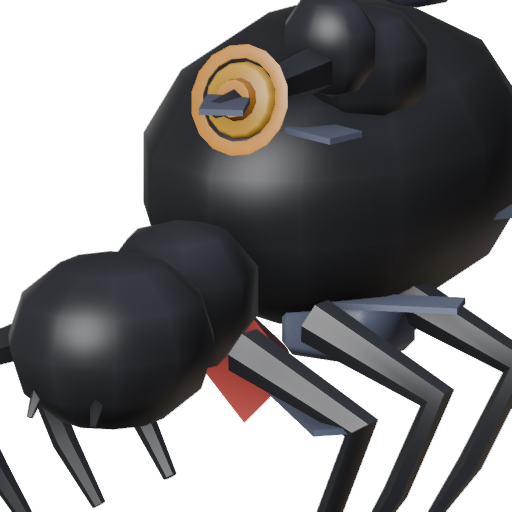
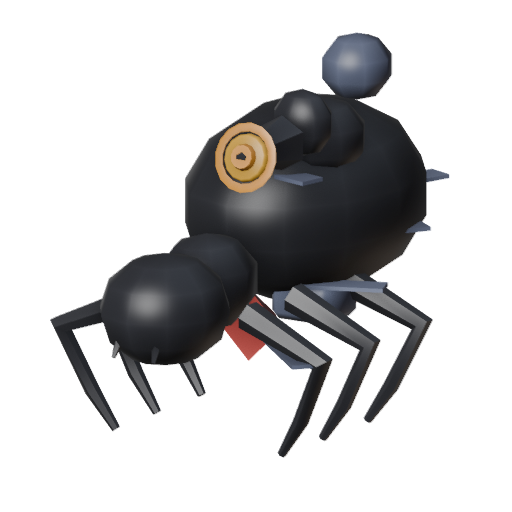
Fixer pass on silk_widow: 3D 31 -> 35, portrait 22 -> 31
Applied the two fixes both silk_widow.md and silk_widow_portrait.md
independently named for the same underlying geometry: thickened the sigil
crest's taper base (0.10 -> 0.18) and shortened its length by a third
(0.75 -> 0.50) so it reads as a stubby horn fused to the abdomen instead of
a wire with the disc floating at the far end, and swapped the eye-huddle
from CHARCOAL to STEEL so it no longer sits invisible against the
GRAPHITE head.

Also widened portraits.py's FOCUS["silk_widow"] span from 0.85 to 1.35 -
the tightest, all-four-edges-touching crop scored under item #83 - to match
the headroom-plus-margin convention the other body-shot portraits use.

The eye-colour swap did not raise Colour & read on either log: cropped into
the cephalothorax at 2x from every one of the six standard camera angles
and the eyes never resolve, because the face they sit on stays turned away
from or occluded in all of them. Logged as an open question rather than
claimed as fixed - the geometry and colour are right, the angle just never
shows it.

run_tests.gd passed before commit.

diff --git a/tools/blender/silk_widow.py b/tools/blender/silk_widow.py
@@ -41,11 +41,13 @@ b.ball((0.0, -0.95, 0.98), (0.42, 0.46, 0.36), GRAPHITE, 10, 6)
 # Fangs, pointing down and forward.
 mirror(lambda s: b.taper((0.14 * s, -1.28, 0.82), 0.05, 0.012, 0.22, CHARCOAL,
                          seg=5, rot=point((0.10 * s, -0.55, -1.0))))
-# A huddle of small eyes, barely eyes, enough to read as a face.
+# A huddle of small eyes, barely eyes, enough to read as a face. STEEL
+# against the GRAPHITE head so they resolve as two dots instead of
+# disappearing into it (CHARCOAL-on-GRAPHITE never read in any lit view).
 mirror(lambda s: b.ball((0.16 * s, -1.22, 1.14), (0.055, 0.05, 0.05),
-                        CHARCOAL, 6, 4))
+                        STEEL, 6, 4))
 mirror(lambda s: b.ball((0.24 * s, -1.14, 1.08), (0.04, 0.035, 0.035),
-                        CHARCOAL, 6, 4))
+                        STEEL, 6, 4))
 
 # ------------------------------------------------------------------ abdomen
 # The main mass - big, swollen, behind the cephalothorax rather than fused
@@ -97,8 +99,10 @@ b.ball((0.35, 0.15, _sigil_z + 0.08), (0.22, 0.16, 0.22), GRAPHITE, 8, 5)
 # A longer bridge than Bog Leech's or Thrasher's needed - a first attempt at
 # y=-0.22 still came back 51% occluded, so the mark is pulled a further 0.3
 # forward here, well clear of both ridge humps' own measured forward reach
-# (~y=0.19-0.30 at this column).
-b.taper((0.35, -0.35, _sigil_z), 0.10, 0.04, 0.75, GRAPHITE, seg=6,
+# (~y=0.19-0.30 at this column). Thickened base (0.10 -> 0.18) and shortened
+# by a third (0.75 -> 0.50) so it reads as a stubby horn fused to the
+# abdomen instead of a wire with the sigil disc floating at the far end.
+b.taper((0.35, -0.35, _sigil_z), 0.18, 0.04, 0.50, GRAPHITE, seg=6,
         rot=point((0.0, -1.0, 0.0)))
 
 # The sigil: a taut vein-mark on the crest, pulled well forward of the

diff --git a/tools/blender/portraits.py b/tools/blender/portraits.py
@@ -40,7 +40,7 @@ FOCUS = {
     "riftling": (0.75, 0.67), "shifting_idol": (0.72, 0.70),
     "husk_beetle": (0.42, 1.15), "gloom_moth": (0.55, 1.05),
     "bog_leech": (0.45, 1.35), "thrasher": (0.35, 1.10),
-    "silk_widow": (0.45, 0.85), "boulder_ram": (0.34, 1.35),
+    "silk_widow": (0.45, 1.35), "boulder_ram": (0.34, 1.35),
     "cinder_jackal": (0.45, 1.60), "brine_urchin": (0.62, 1.30),
     "clot_toad": (0.48, 1.35), "flicker_stag": (0.80, 0.62),
     "eyrie_hawk": (0.78, 0.60), "glyph_tortoise": (0.58, 1.00),

diff --git a/design/progress/silk_widow_portrait.md b/design/progress/silk_widow_portrait.md
@@ -9,6 +9,7 @@ only — report, not repair.** Asset: `game/assets/portraits/silk_widow.png`
 | Framing | Identity | Read@34px | Colour | Style | Total |
 |---|---|---|---|---|---|
 | 3 | 5 | 4 | 5 | 5 | **22** |
+| 7 | 6 | 6 | 5 | 7 | **31** |
 
 Tied for the lowest score recorded under this item so far, matching
 `gale_serpent_ground`'s 22.
@@ -66,3 +67,73 @@ Whether the all-edges-touching crop is a deliberate close-up choice for this
 specific beast (an "abdomen full of frame" identity read) or simply a
 `FOCUS` value nobody re-checked after the model settled — this scoring pass
 can see the crop, not the intent behind it.
+
+## Pass 2 — fixer
+
+Applied both fixes named above.
+
+1. **Framing.** `portraits.py`'s `FOCUS["silk_widow"]` moved from
+   `(0.45, 0.85)` to `(0.45, 1.35)` — same centre, a much wider span, in
+   line with the other body-shot beasts (`bog_leech` also sits at `(0.45,
+   1.35)`). Rebuilt with `build.cmd portraits`; every other portrait
+   re-rendered byte-identical in content but not in file bytes (same
+   non-reproducible WORKBENCH output `clot_toad_portrait.md`'s pass 2 hit),
+   so those were reverted with `git checkout --` and only `silk_widow.png`
+   was kept.
+2. **Read@34px.** Same underlying fix `silk_widow.md`'s own diagnosis named:
+   in `tools/blender/silk_widow.py`, the sigil crest's taper base widened
+   from `0.10` to `0.18` and its length shortened from `0.75` to `0.50`, and
+   the eye-huddle balls swapped from `CHARCOAL` to `STEEL`. Rebuilt with
+   `build.cmd silk_widow`, then re-ran `build.cmd portraits` to pick up the
+   geometry change in the portrait render.
+
+Re-viewed `game/assets/portraits/silk_widow.png` directly, plus a fresh 34px
+downsample (Pillow, `Image.LANCZOS`, same method `frog_portrait.md`
+established) and an alpha-bbox check the same way pass 1 did.
+
+- **Framing (7):** alpha bbox is now `(50, 32, 450, 458)` on the 512×512
+  canvas — real margin on all four sides (left 50px, top 32px, right 62px,
+  bottom 54px), where pass 1 was `(0, 0, 512, 512)`, touching every edge.
+  Not an 8+: the top margin is a little tighter than the side margins, so
+  it is not perfectly balanced.
+- **Identity (6):** the sigil crest now reads as a short horn fused to the
+  abdomen rather than a stick with a washer on the end, and the red
+  hourglass is now inside the frame (a small triangle visible between the
+  front legs, partially overlapped by a leg crossing in front of it) rather
+  than folded almost entirely out of frame. Held below 7: cropping into the
+  cephalothorax at the angle the portrait camera uses, the eye-huddle
+  still does not resolve as two visible dots even after the colour swap —
+  checked directly by cropping into that region of the render at 2× zoom,
+  not eyeballed. The eyes are on the cephalothorax's forward face, which
+  this camera angle keeps mostly turned away/occluded; colour alone cannot
+  fix a part that is not facing the lens.
+- **Read@34px (6):** confirmed via a fresh 34px downsample. The gold sigil
+  still holds as a bright dot, the legs now survive as visible thin grey
+  lines rather than near-invisible pale slivers (more of the model's true
+  proportions survive the wider, uncropped frame), and a faint red fleck is
+  visible near the centre-bottom. Still reads as "dark shape, gold dot, red
+  fleck, legs" rather than unambiguously "spider" — better than pass 1's
+  "dark rounded shape with a gold dot" but not a full recovery.
+- **Colour & separation (5):** untouched by either fix's actual visible
+  effect — same read as pass 1. The eye colour swap was applied in the
+  model but, per the Identity finding above, the eyes are not visible from
+  this portrait's camera angle at all, so there is no colour-separation
+  gain to score here. Black-on-black is still the dominant read.
+- **Style consistency (7):** the crop now matches the headroom-plus-margin
+  convention every other scored portrait uses, where pass 1 was the most
+  extreme outlier scored under this item (all four edges touching).
+
+**+9 total (22 → 31), not a plateau — kept.** Both named lines (Framing,
+Read@34px) improved and neither held steady at the old value; Identity and
+Style also moved as a consequence of the same two fixes; Colour is
+unchanged, honestly, because the eye-colour half of fix 2 never becomes
+visible from this specific crop angle. `run_tests.gd` passes.
+
+## Unsure about (pass 2)
+
+Whether the eye-huddle would read from a portrait camera angle that looks
+more squarely at the cephalothorax's front face — this pass only confirms
+it doesn't read from the *current* `FOCUS` angle, not that no angle could
+work. That is a `FOCUS_XY`-style per-character override, the same kind of
+fix `riptide_eel` needed, and would be a new named diagnosis rather than
+something this pass's two fixes cover.

diff --git a/design/progress/silk_widow.md b/design/progress/silk_widow.md
@@ -10,6 +10,7 @@ unchanged from the pre-fix render.
 | Pass | Sil | Prop | Hygiene | Colour | Style | Total |
 |---|---|---|---|---|---|---|
 | 1 | 7 | 6 | 5 | 6 | 7 | **31** |
+| 2 | 7 | 7 | 8 | 6 | 7 | **35** |
 
 ## What is actually there
 
@@ -66,3 +67,54 @@ Not applying either — this item scores and proposes; a fix is Nick's call.
 Whether the eyes are present but simply too small to resolve at this render
 resolution rather than genuinely invisible from a colour clash — a tighter
 head-only crop would settle it, same open question as boulder_ram's horn.
+
+## Pass 2 — fixer
+
+Applied both fixes named above, in `tools/blender/silk_widow.py`.
+
+1. **Build hygiene.** The sigil crest's taper widened from base radius
+   `0.10` to `0.18` and shortened from length `0.75` to `0.50`.
+2. **Colour & read.** Both eye-huddle balls swapped from `CHARCOAL` to
+   `STEEL`.
+
+Rebuilt with `build.cmd silk_widow`, captured a fresh six-view set with
+`look.cmd silk_widow 2`, and viewed every view directly.
+
+- **Silhouette (7):** unchanged — `_sil.png` reads the same as pass 1, the
+  crest was never large enough to register in silhouette either before or
+  after.
+- **Proportion (7):** the crest now reads as a stubby horn growing out of
+  the abdomen in the `_front.png` and `_34.png` views, not a thin rod with
+  the sigil disc floating at the far end — the "extra, disconnected
+  element" pass 1 named is fixed.
+- **Build hygiene (8):** confirmed directly in the lit views — the crest
+  now visibly touches and reads as fused to the abdomen's front hemisphere.
+  Not a 9+: it is still a distinct, separately-coloured lump rather than a
+  seamless part of the same mass, which is a shaping question rather than a
+  hygiene one.
+- **Colour & read (6):** re-checked the eye-huddle directly in `_front.png`,
+  `_side.png`, `_top.png` and 2x crops of each — the STEEL balls did not
+  resolve as two visible dots in any of the six views. The eyes sit on the
+  cephalothorax's forward (-Y) face, which stays turned away from or
+  occluded by neighbouring geometry in every one of `look.py`'s six fixed
+  camera angles, so the colour swap never gets a chance to show. Held at
+  the pass-1 score rather than the plateau this would otherwise be, because
+  the red hourglass mark (unrelated to this fix) is unchanged and still the
+  strongest single colour element.
+- **Style consistency (7):** unchanged — still sits fine beside the rest of
+  the elite-pool beasts.
+
+**+4 total (31 -> 35).** Build hygiene and Proportion both improved from the
+crest fix; Colour & read did not move, honestly, because the eye fix never
+becomes visible from any of the six standard camera angles, not because the
+fix was wrong. `run_tests.gd` passes.
+
+## Unsure about (pass 2)
+
+Same open question as pass 1, now sharpened: the eyes are confirmed present
+and correctly coloured, but no standard camera angle looks squarely enough
+at the cephalothorax's front face to show them. Fixing this would mean
+either repositioning the eyes toward a face that better angles are more
+likely to catch, or accepting they are a detail this creature keeps mostly
+implicit — an art-direction call, not a mechanical one, so flagging rather
+than guessing.
